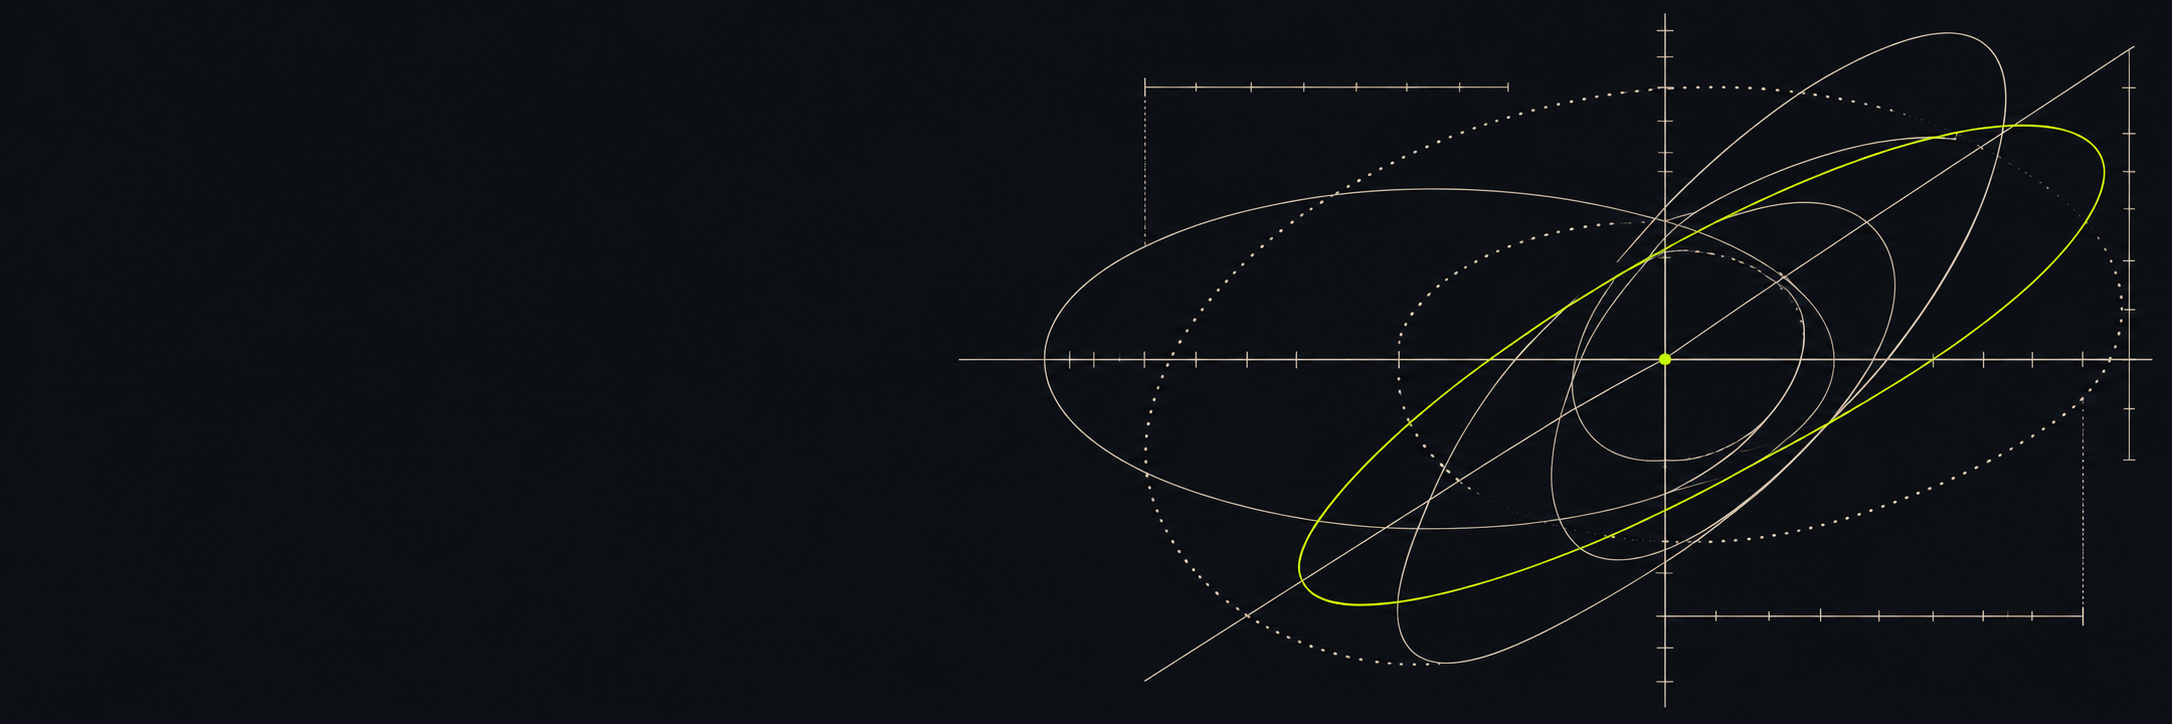
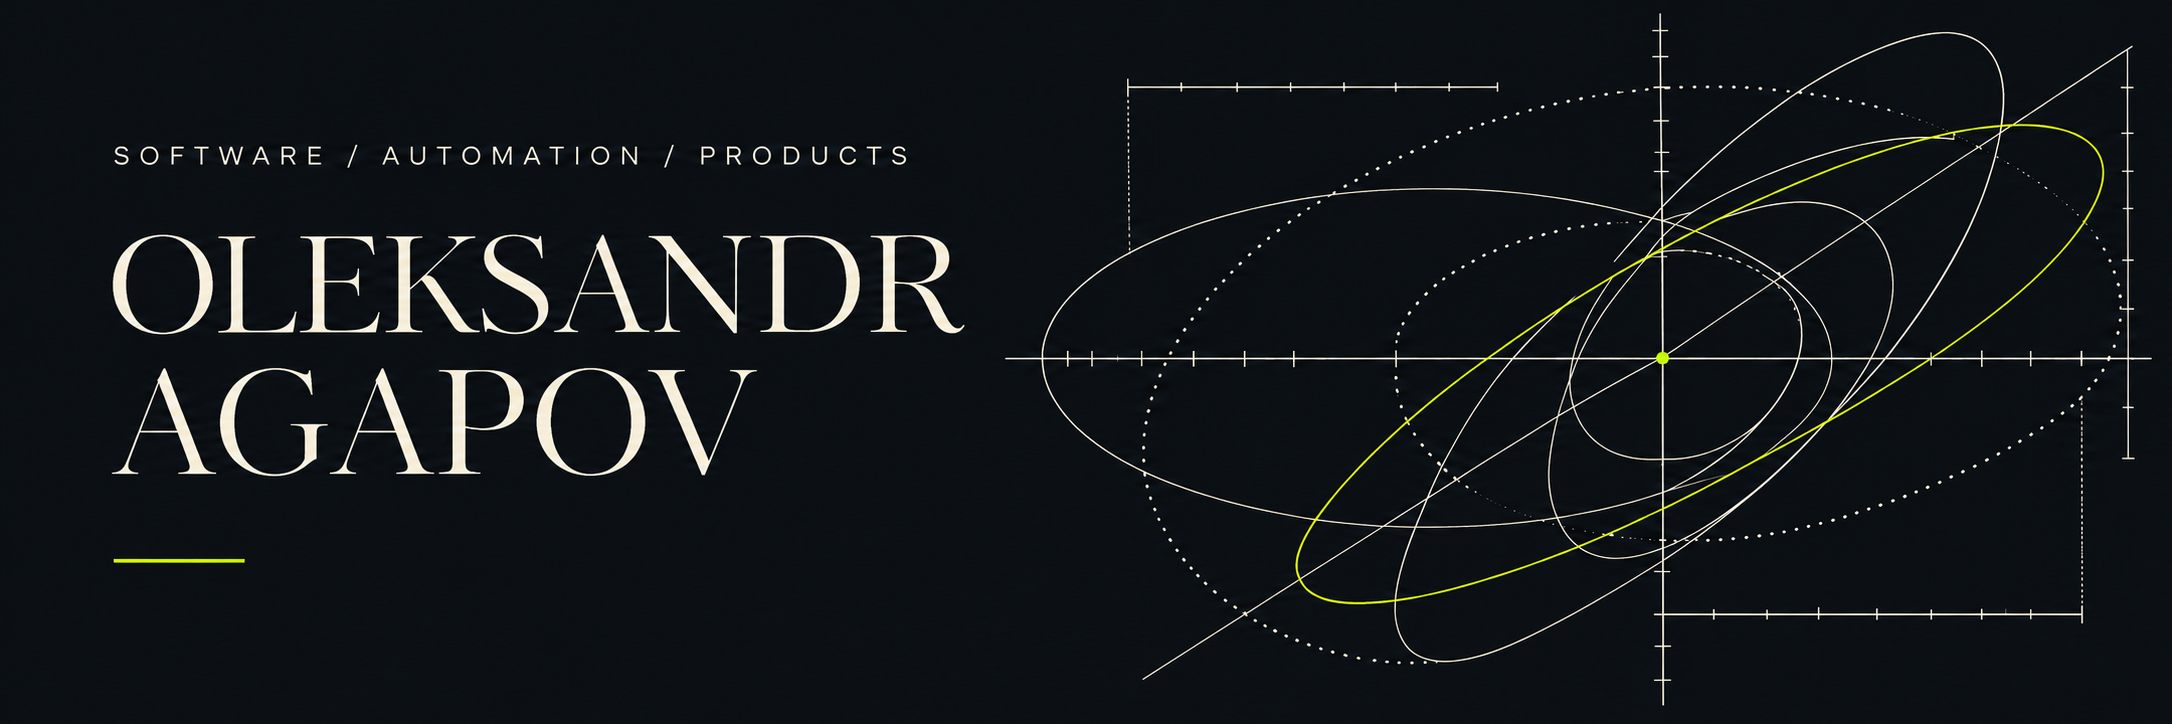
Refine profile header composition

diff --git a/README.md b/README.md
@@ -1,8 +1,4 @@
-# Oleksandr Agapov
-
-**Software · Automation · Products**
-
-![Abstract technical drawing in graphite and lime](assets/profile-art.png)
+![Oleksandr Agapov — software, automation, products](assets/profile-art.png)
 
 Software Engineering student in Kyiv. I work on software projects and explore automation, data, and product development.
 
